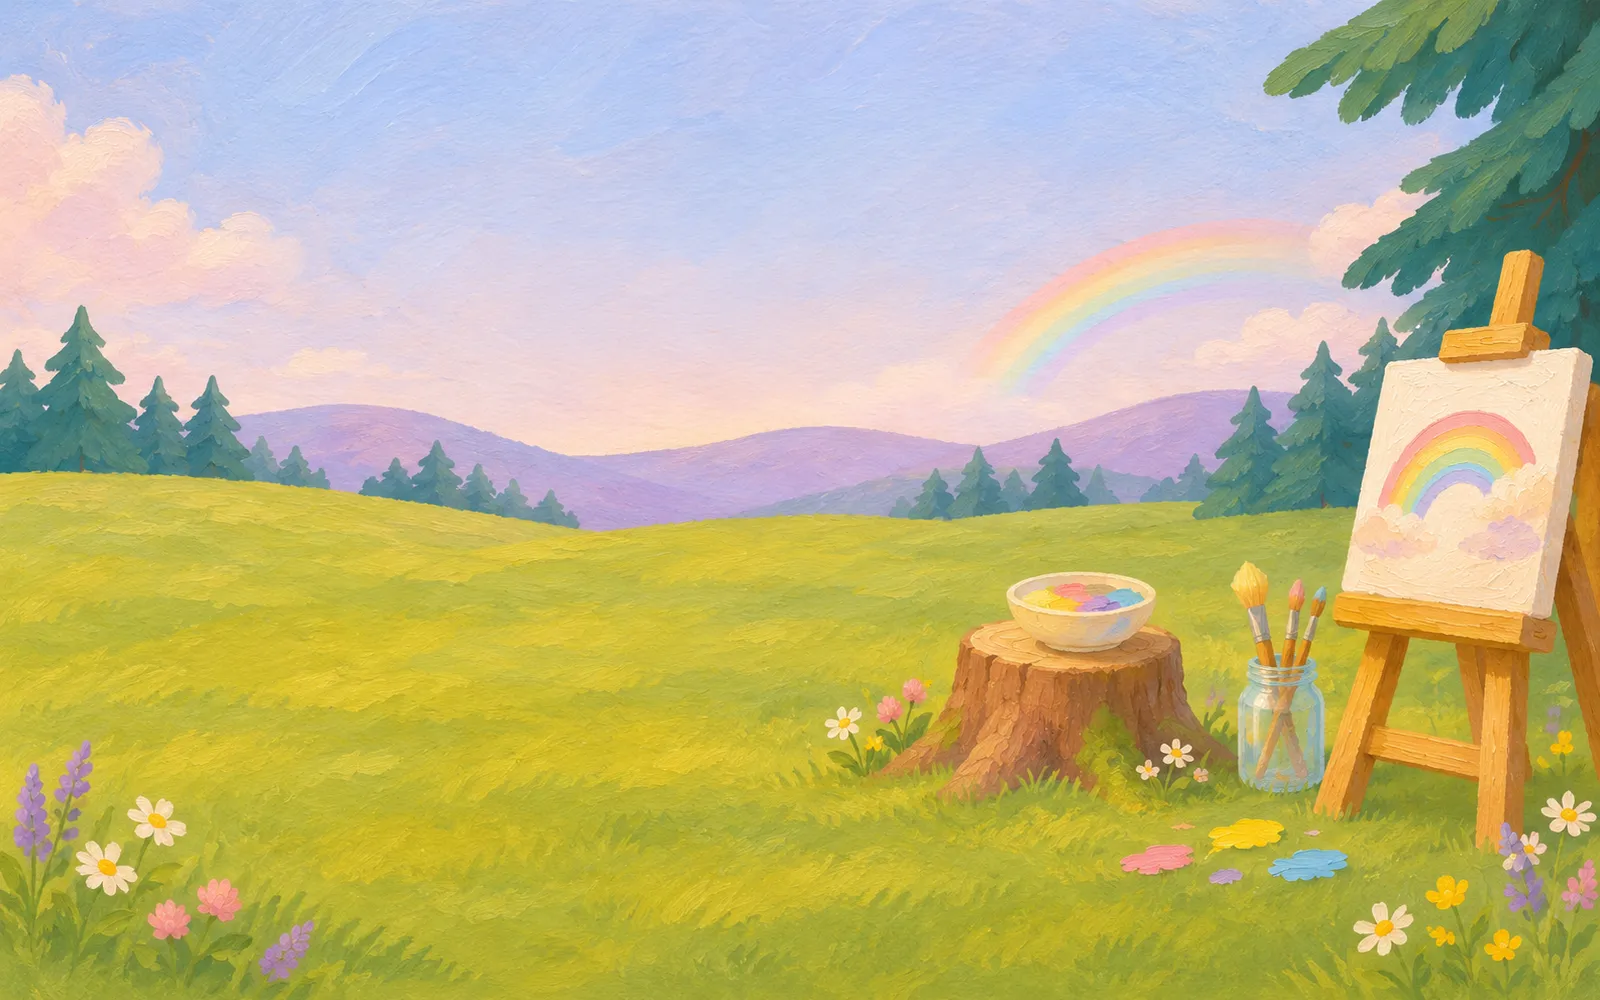
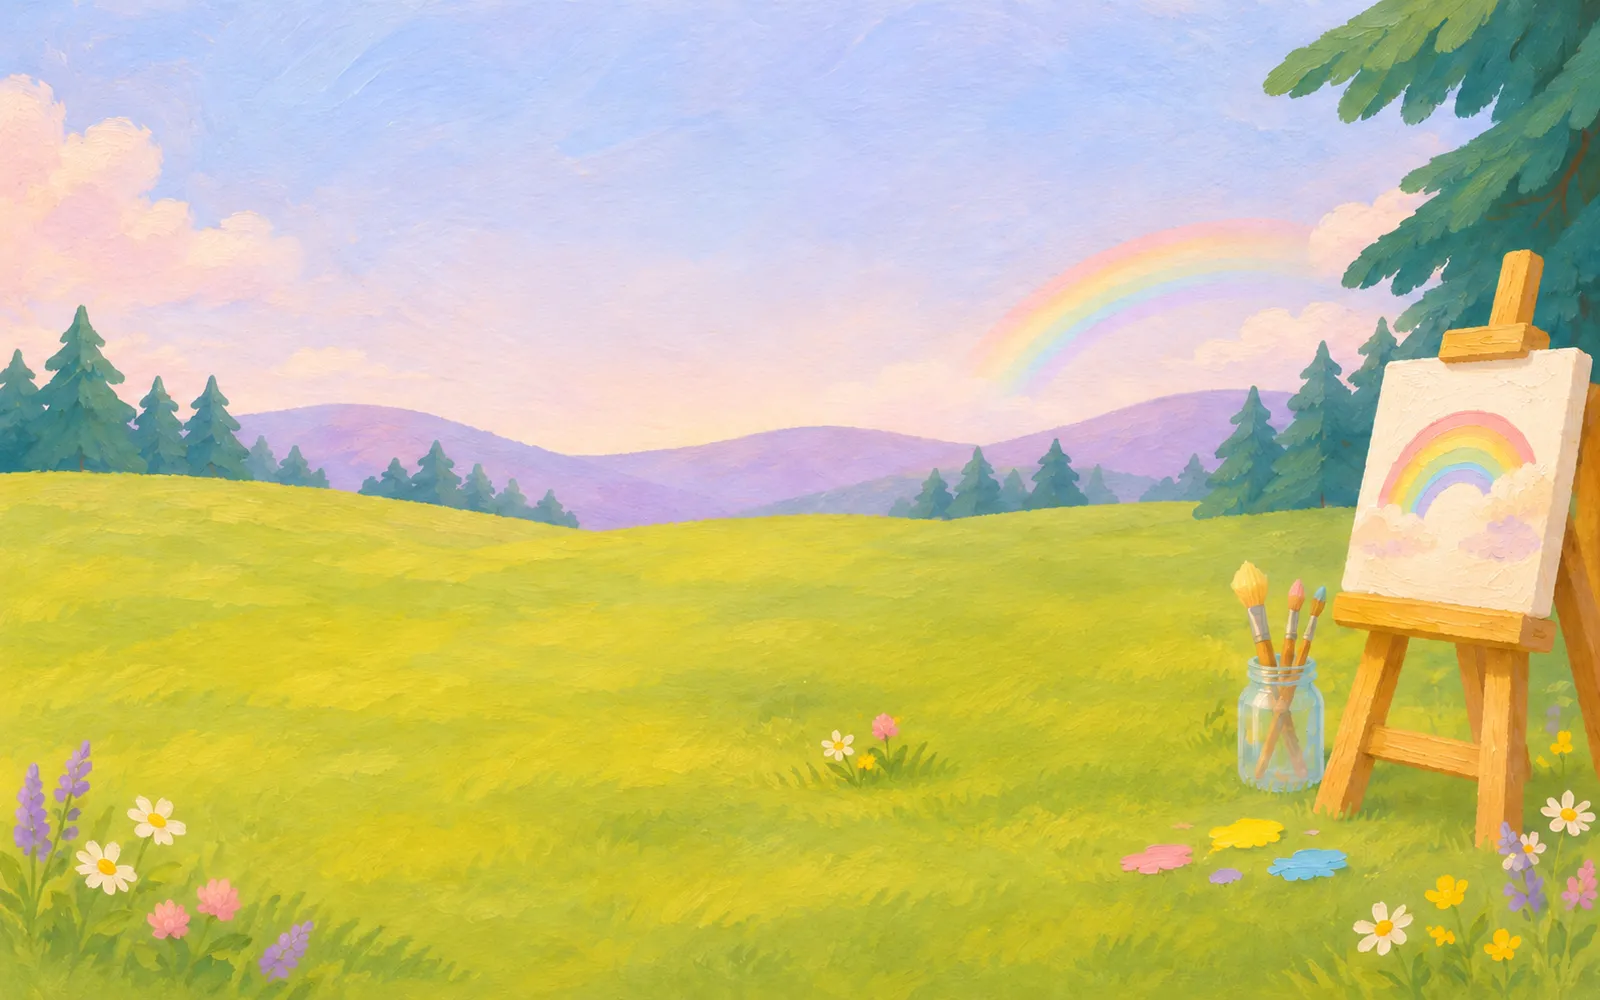
Rainbow Mix: one bowl in the grass, no stump
The wide painting had its own stump with a bowl beside ours; it is painted
out, and our stump is dropped too, so a single mixing bowl stands in the grass.

diff --git a/src/games/rainbow-mix/Game.tsx b/src/games/rainbow-mix/Game.tsx
@@ -9,22 +9,21 @@ import type { GameProps } from '../../kit/types'
 import bowl from './art/bowl.webp'
 import meadowTall from './art/meadow-tall.webp'
 import meadow from './art/meadow.webp'
-import stump from './art/stump.webp'
 import { capFor, makeWishes, mixColour, namedAt, nameOf, PAINTS, sameColour, tip, type Paint } from './logic'
 import { BowlPaint, PaintedPony, Pot, Sum, Wish, type Mood, type PonyKind } from './Studio'
 
 type ViewId = 'wide' | 'tall'
 
-/** The painting corner on the meadow; the focus holds the pony, the stump with the bowl and the wish above them. */
+/** The painting corner on the meadow; the focus holds the pony, the bowl and the wish above them. */
 const VIEWS: PaintedView<ViewId>[] = [
-  { id: 'wide', painting: meadow, world: { w: 1280, h: 800 }, focus: { x: 150, y: 90, w: 900, h: 690 }, ground: '#9fa331', sayAt: { x: 200, y: 260 } },
+  { id: 'wide', painting: meadow, world: { w: 1280, h: 800 }, focus: { x: 150, y: 90, w: 900, h: 690 }, ground: '#a9ae2e', sayAt: { x: 200, y: 260 } },
   { id: 'tall', painting: meadowTall, world: { w: 720, h: 1152 }, focus: { x: 0, y: 300, w: 720, h: 760 }, ground: '#9cb035', sayAt: { x: 40, y: 250 } },
 ]
 
-/** Where everything stands in each painting: the pony and the stump by their feet, the wish cloud and the sum by their top left / centre. */
-const SPOTS: Record<ViewId, { pony: { x: number; bottom: number; h: number }; stump: { x: number; bottom: number; h: number }; wish: { x: number; y: number; w: number }; sum: { x: number; y: number } }> = {
-  wide: { pony: { x: 380, bottom: 700, h: 380 }, stump: { x: 720, bottom: 712, h: 160 }, wish: { x: 520, y: 120, w: 320 }, sum: { x: 600, y: 752 } },
-  tall: { pony: { x: 230, bottom: 930, h: 340 }, stump: { x: 545, bottom: 950, h: 140 }, wish: { x: 330, y: 290, w: 300 }, sum: { x: 360, y: 1010 } },
+/** Where everything stands in each painting: the pony and the bowl by their feet, the wish cloud and the sum by their top left / centre. */
+const SPOTS: Record<ViewId, { pony: { x: number; bottom: number; h: number }; bowl: { x: number; bottom: number; h: number }; wish: { x: number; y: number; w: number }; sum: { x: number; y: number } }> = {
+  wide: { pony: { x: 380, bottom: 700, h: 380 }, bowl: { x: 740, bottom: 690, h: 120 }, wish: { x: 520, y: 120, w: 320 }, sum: { x: 600, y: 752 } },
+  tall: { pony: { x: 230, bottom: 930, h: 340 }, bowl: { x: 530, bottom: 930, h: 110 }, wish: { x: 330, y: 290, w: 300 }, sum: { x: 360, y: 1010 } },
 }
 
 // One pony after the other comes for a new mane.
@@ -146,8 +145,7 @@ export default function RainbowMix({ level, seed, t, onFinish }: GameProps) {
     >
       {(view) => {
         const at = SPOTS[view]
-        const bowlH = at.stump.h * 0.62
-        const top = at.stump.bottom - at.stump.h * 0.82
+        const bowlTop = at.bowl.bottom - at.bowl.h
         return (
           <div className="rm-board" role="img" aria-label={mixed ? `${t('recipe')}: ${mixed.map((p) => t(p)).join(' + ')}` : undefined}>
             <div className="rm-cloud" style={{ left: at.wish.x, top: at.wish.y, width: at.wish.w }}>
@@ -157,9 +155,8 @@ export default function RainbowMix({ level, seed, t, onFinish }: GameProps) {
             <div key={turn} className="rm-arrive">
               <PaintedPony kind={kind} mood={mood} mane={painted ? wishColour : null} stirring={stirring} style={worldStyle(at.pony.x, at.pony.bottom, at.pony.h)} />
             </div>
-            <img className="rm-prop" src={stump} alt="" draggable={false} style={worldStyle(at.stump.x, at.stump.bottom, at.stump.h)} />
-            <img className="rm-prop" src={bowl} alt="" draggable={false} style={worldStyle(at.stump.x, top + bowlH * 0.95, bowlH)} />
-            <div className="rm-paint-at" style={{ left: at.stump.x, top: top + bowlH * 0.2, width: bowlH * 2.1 }}>
+            <img className="rm-prop" src={bowl} alt="" draggable={false} style={worldStyle(at.bowl.x, at.bowl.bottom, at.bowl.h)} />
+            <div className="rm-paint-at" style={{ left: at.bowl.x, top: bowlTop + at.bowl.h * 0.25, width: at.bowl.h * 2.1 }}>
               <BowlPaint drops={drops} cap={cap} mixed={colour} stirring={stirring} />
             </div>
             {mixed && colour && (

diff --git a/src/games/rainbow-mix/Studio.tsx b/src/games/rainbow-mix/Studio.tsx
@@ -2,7 +2,7 @@ import { useEffect, useState, type CSSProperties } from 'react'
 import { mixColour, type Paint } from './logic'
 
 // The painting corner on the meadow: the painted pony who wishes for a colour, its wish in a thought cloud, and the
-// painted mixing bowl on a tree stump. The paint itself (the drops, the mix, the new mane) is laid over the
+// painted mixing bowl in the grass. The paint itself (the drops, the mix, the new mane) is laid over the
 // paintings, since its colour changes.
 
 /** The painted ponies, each with four faces and a mask of the mane and tail for each: art/<kind>[-<face>][-mask].webp. */
